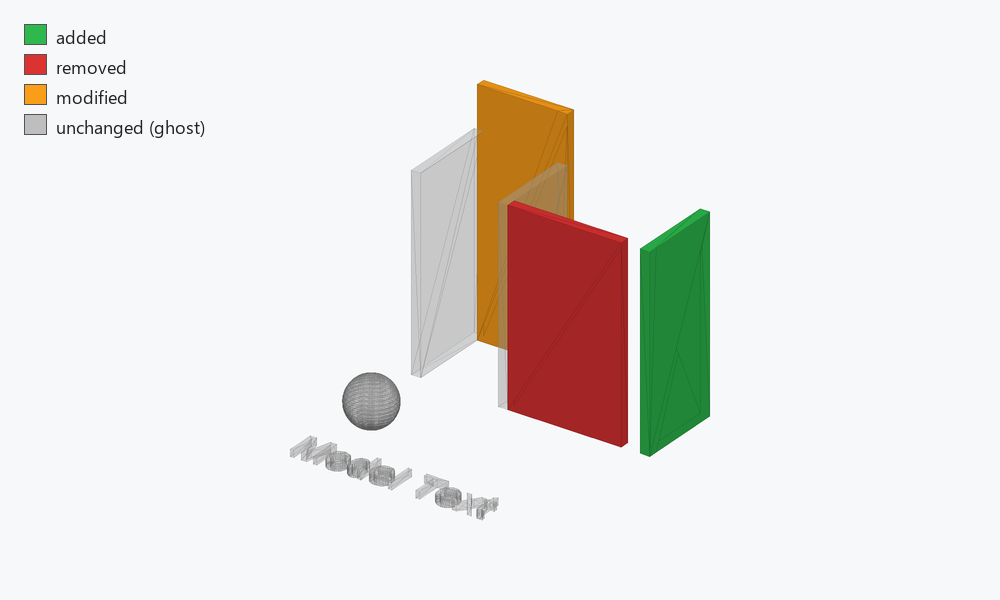
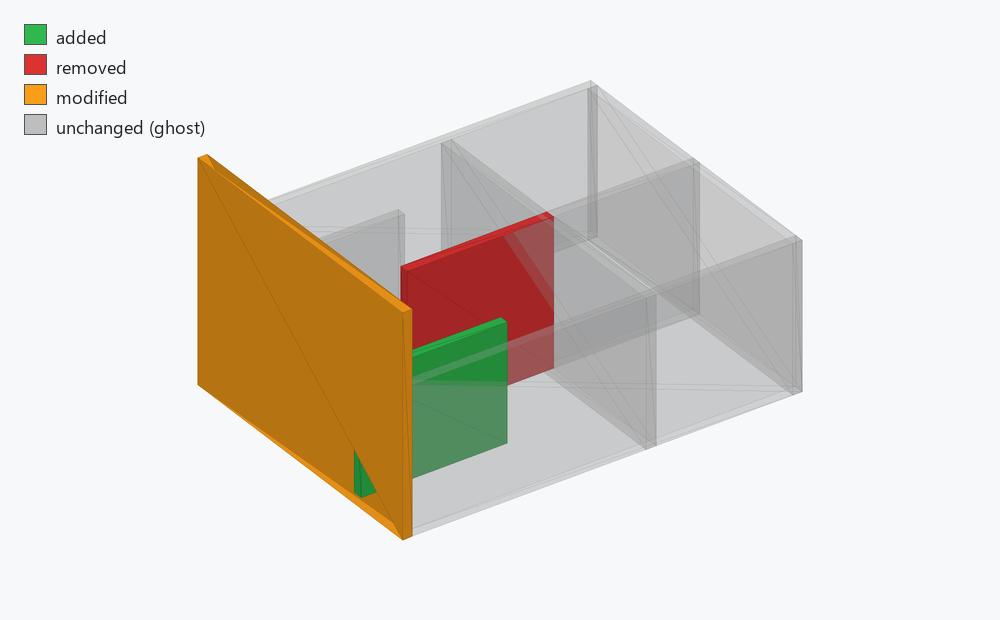
ddc diff demo: synthetic input for the GLB picture; tests follow the synthetic RVT fixture

diff --git a/ddc-tools/docs/make_diff_demo.py b/ddc-tools/docs/make_diff_demo.py
@@ -1,18 +1,24 @@
-"""Make "version 2" of a real RVT Converter output folder for the ddc diff demo (README screenshots).
+"""Make two versions of a small synthetic RVT-style output for the ddc diff demo (README picture).
 
-    RVTconverter.exe Sample_R24.rvt -o R24 --properties --ifc
-    python make_diff_demo.py R24 R24_v2
+    python make_diff_demo.py DEMO_A DEMO_B
 
-Sample_R24.rvt is the DDC sample of this repository (DDC_Update_Revit_from_Excel/Samples). The copy is
-edited the way a designer edits a model between two issues: wall 2567 gets taller (stored height
-and a 25 % taller mesh), wall 2646 is deleted, a new wall 9100 appears (a copy of wall 2606 moved by 3 m)
-properties.jsonl and native_graph.glb are rewritten; native_graph.ifc is copied unchanged.
+Base: tests/data/rvt_converted/properties.jsonl (synthetic, RVT Converter layout). Its wall 1001 is cloned
+into eight walls that form a room with a partition; a box per wall is written as native_graph.glb (the
+converter's node layout: extras.element_id, one node per element). Version B: wall 1004 is taller (stored
+height and mesh), wall 1006 is deleted, wall 1009 is new (and lower). Not a model of anything real.
 """
 import json
 import shutil
-import struct
 import sys
 from pathlib import Path
+
+HERE = Path(__file__).resolve().parent
+sys.path.insert(0, str(HERE.parent / "tests"))
+from _glbutil import write_boxes  # noqa: E402
+
+# id: (x, z, length, along) in metres, wall thickness 0.2, height 3 (glTF Y up)
+WALLS = {1001: (0, 0, 8, "x"), 1002: (0, 6, 8, "x"), 1003: (0, 0, 6, "z"), 1004: (8, 0, 6, "z"),
+         1005: (3, 0, 6, "z"), 1006: (3, 3, 3, "x"), 1007: (0, 3, 3, "x"), 1008: (5, 4.5, 3, "x")}
 
 
 def set_first_number(obj, new):
@@ -26,55 +32,34 @@ def set_first_number(obj, new):
     return False
 
 
-def edit_glb(src, dst, drop, scale_y, clone_from, clone_id, dx):
-    d = Path(src).read_bytes()
-    jl = struct.unpack("<I", d[12:16])[0]
-    g = json.loads(d[20:20 + jl])
-    off = 20 + jl
-    bl = struct.unpack("<I", d[off:off + 4])[0]
-    blob = d[off + 8: off + 8 + bl]
-    nodes = []
-    for n in g["nodes"]:
-        eid = n["extras"]["element_id"]
-        if eid == drop:
-            continue
-        if eid in scale_y:                       # glTF is Y-up, the matrix is column-major
-            m = n["matrix"]
-            m[9] *= scale_y[eid]
-        nodes.append(n)
-        if eid == clone_from:
-            c = json.loads(json.dumps(n))
-            c["extras"]["element_id"] = clone_id
-            c["name"] = f"element_{clone_id}"
-            c["matrix"][12] += dx
-            nodes.append(c)
-    g["nodes"] = nodes
-    g["scenes"][0]["nodes"] = list(range(len(nodes)))
-    js = json.dumps(g, separators=(",", ":")).encode()
-    js += b" " * (-len(js) % 4)
-    total = 12 + 8 + len(js) + 8 + len(blob)
-    Path(dst).write_bytes(b"glTF" + struct.pack("<II", 2, total) + struct.pack("<I", len(js)) + b"JSON" + js
-                          + struct.pack("<I", len(blob)) + b"BIN\x00" + blob)
+def box(eid, spec, height=3.0):
+    x, z, ln, along = spec
+    return (eid, (x, 0, z), (ln, height, 0.2) if along == "x" else (0.2, height, ln))
 
 
-def main(src, dst):
-    src, dst = Path(src), Path(dst)
+def write(dst, ids, heights=None):
+    heights = heights or {}
     dst.mkdir(parents=True)
-    shutil.copy(src / "native_graph.ifc", dst / "native_graph.ifc")
-    out = []
-    for ln in (src / "properties.jsonl").read_text(encoding="utf-8").splitlines():
-        d = json.loads(ln)
-        owner = str(d.get("owner"))
-        if owner == "2646":
-            continue
-        if owner == "2567" and d.get("row") == "parameter" and d.get("builtin_label") == "Unconnected Height":
-            set_first_number(d["fields"], 17.0)
-        out.append(ln if owner != "2567" or d.get("builtin_label") != "Unconnected Height" else json.dumps(d))
-        if owner == "2606":
-            out.append(json.dumps(json.loads(json.dumps(d).replace('"2606"', '"9100"'))))
-    (dst / "properties.jsonl").write_text("\n".join(out) + "\n", encoding="utf-8")
-    edit_glb(src / "native_graph.glb", dst / "native_graph.glb", drop=2646, scale_y={2567: 1.25},
-             clone_from=2606, clone_id=9100, dx=3.0)
+    base = [json.loads(l) for l in (HERE.parent / "tests/data/rvt_converted/properties.jsonl").read_text(encoding="utf-8").splitlines()]
+    out = [d for d in base if str(d.get("owner")) != "1001" and str(d.get("owner")) != "1002"]
+    wall = [d for d in base if str(d.get("owner")) == "1001"]
+    for i in ids:
+        for d in wall:
+            e = json.loads(json.dumps(d).replace('"1001"', f'"{i}"'))
+            if i in heights and e.get("row") == "parameter" and e.get("builtin_label") == "Unconnected Height":
+                set_first_number(e["fields"], heights[i] / 0.3048)
+            out.append(e)
+    (dst / "properties.jsonl").write_text("\n".join(json.dumps(d) for d in out) + "\n", encoding="utf-8")
+    boxes = [box(i, WALLS[i], heights.get(i, 3.0)) for i in ids]
+    write_boxes(dst / "native_graph.glb", boxes)
+
+
+def main(a, b):
+    ids = sorted(WALLS)
+    write(Path(a), ids)
+    new = [i for i in ids if i != 1006] + [1009]
+    WALLS[1009] = (5, 1.5, 3, "x")
+    write(Path(b), new, heights={1004: 4.5, 1009: 2.4})
 
 
 if __name__ == "__main__":

diff --git a/ddc-tools/tests/test_diff.py b/ddc-tools/tests/test_diff.py
@@ -310,18 +310,18 @@ def rvt_pair(tmp_path):
     for ln in (a / "properties.jsonl").read_text(encoding="utf-8").splitlines():
         d = json.loads(ln)
         owner = str(d.get("owner"))
-        if owner == "2549":
-            continue                                           # wall 2549 is deleted in B
-        if owner == "2567" and d.get("row") == "parameter" and d.get("builtin_label") == "Unconnected Height":
-            assert _param_numbers(d["fields"], 7.5)             # wall 2567 gets a new height
+        if owner == "1001":
+            continue                                           # wall 1001 is deleted in B
+        if owner == "1002" and d.get("row") == "parameter" and d.get("builtin_label") == "Unconnected Height":
+            assert _param_numbers(d["fields"], 7.5)             # wall 1002 gets a new height
         lines_out.append(json.dumps(d))
-        if owner == "2567":                                    # wall 9000 is new: a copy of 2567
-            e = json.loads(json.dumps(d).replace('"2567"', '"9000"'))
+        if owner == "1002":                                    # wall 9000 is new: a copy of 1002
+            e = json.loads(json.dumps(d).replace('"1002"', '"9000"'))
             e["owner"] = "9000"
             lines_out.append(json.dumps(e))
     (b / "properties.jsonl").write_text("\n".join(lines_out) + "\n", encoding="utf-8")
-    write_cubes(a / "native_graph.glb", [(2549, 10, 0), (2567, 10, 20)])
-    write_cubes(b / "native_graph.glb", [(2567, 10, 20), (9000, 10, 40)])
+    write_cubes(a / "native_graph.glb", [(1001, 10, 0), (1002, 10, 20)])
+    write_cubes(b / "native_graph.glb", [(1002, 10, 20), (9000, 10, 40)])
     return a, b
 
 
@@ -330,26 +330,26 @@ def test_rvt_diff_and_glb_coloring(rvt_pair, tmp_path):
     r = diff.diff_tables(table.build_table(str(a)), table.build_table(str(b)))
     st = {e["key"]: e for e in r["elements"]}
     assert r["key"]["column"] == "GlobalId" or r["key"]["column"] == "ElementId"
-    assert {k: v["status"] for k, v in st.items() if k in ("2549", "2567", "9000")} ==         {"2549": "removed", "2567": "modified", "9000": "added"}
-    assert [c["field"] for c in st["2567"]["changes"]] == ["Unconnected Height"]
-    assert st["1"]["status"] == st["1679"]["status"] == "unchanged"
+    assert {k: v["status"] for k, v in st.items() if k in ("1001", "1002", "9000")} ==         {"1001": "removed", "1002": "modified", "9000": "added"}
+    assert [c["field"] for c in st["1002"]["changes"]] == ["Unconnected Height"]
+    assert st["1"]["status"] == st["501"]["status"] == "unchanged"
     out = tmp_path / "diff.glb"
     stats = glbdiff.colorize(str(b / "native_graph.glb"), str(a / "native_graph.glb"), r, str(out))
     assert (stats["base_version"], stats["linked"], stats["unlinked"], stats["removed"]) == ("B", 2, 0, 1)
     gltf, blob = glbdiff.read_glb(out)
     status = {n["extras"]["element_id"]: n["extras"]["ddc_diff_status"] for n in gltf["nodes"]}
-    assert status == {2567: "modified", 9000: "added", 2549: "removed"}
+    assert status == {1002: "modified", 9000: "added", 1001: "removed"}
     colors = {}
     for n in gltf["nodes"]:
         m = gltf["materials"][gltf["meshes"][n["mesh"]]["primitives"][0]["material"]]
         colors[n["extras"]["element_id"]] = m["pbrMetallicRoughness"]["baseColorFactor"][:3]
-    assert colors[2549][0] > 0.8 and colors[2549][1] < 0.3                      # red
+    assert colors[1001][0] > 0.8 and colors[1001][1] < 0.3                      # red
     assert colors[9000][1] > colors[9000][0] and colors[9000][1] > colors[9000][2]   # green
-    assert colors[2567][0] > 0.9 and 0.5 < colors[2567][1] < 0.7                # orange
+    assert colors[1002][0] > 0.9 and 0.5 < colors[1002][1] < 0.7                # orange
     # the geometry copied from A reads back through the table reader: a 10 ft cube in metres
     q = table.read_glb_quantities(out)
-    assert abs(q["2549"]["volume"]) == pytest.approx((10 * 0.3048) ** 3, rel=1e-5)
-    assert abs(q["2567"]["volume"]) == pytest.approx((10 * 0.3048) ** 3, rel=1e-5)
+    assert abs(q["1001"]["volume"]) == pytest.approx((10 * 0.3048) ** 3, rel=1e-5)
+    assert abs(q["1002"]["volume"]) == pytest.approx((10 * 0.3048) ** 3, rel=1e-5)
     assert gltf["buffers"][0]["byteLength"] == len(blob)
 
 

diff --git a/ddc-tools/tests/_glbutil.py b/ddc-tools/tests/_glbutil.py
@@ -42,3 +42,35 @@ def write_cubes(path, cubes, scale=0.3048, extras_key="element_id", name_prefix=
     total = 12 + 8 + len(js) + 8 + len(blob)
     Path(path).write_bytes(b"glTF" + struct.pack("<II", 2, total) + struct.pack("<I", len(js)) + b"JSON" + js
                            + struct.pack("<I", len(blob)) + b"BIN\x00" + blob)
+
+
+def write_boxes(path, boxes, extras_key="element_id", name_prefix="element_"):
+    """boxes: list of (element id, (x, y, z) corner, (sx, sy, sz) size) in metres, glTF axes (Y up)."""
+    pos_blob, idx_blob = b"", b""
+    views, accessors, meshes, nodes = [], [], [], []
+    idx = []
+    for a, b, c, d in QUADS:
+        idx += [a, b, c, a, c, d]
+    i_bytes = b"".join(struct.pack("<H", k) for k in idx)
+    i_bytes += b"\x00" * (-len(i_bytes) % 4)
+    # one shared unit-cube mesh, every box is a node with a scale + translation matrix
+    v = [(x, y, z) for x in (0, 1) for y in (0, 1) for z in (0, 1)]
+    p = b"".join(struct.pack("<3f", *q) for q in v)
+    views = [{"buffer": 0, "byteOffset": 0, "byteLength": len(p)},
+             {"buffer": 0, "byteOffset": len(p), "byteLength": len(i_bytes)}]
+    accessors = [{"bufferView": 0, "componentType": 5126, "count": 8, "type": "VEC3"},
+                 {"bufferView": 1, "componentType": 5123, "count": len(idx), "type": "SCALAR"}]
+    meshes = [{"primitives": [{"attributes": {"POSITION": 0}, "indices": 1, "material": 0, "mode": 4}]}]
+    for eid, (x, y, z), (sx, sy, sz) in boxes:
+        nodes.append({"name": f"{name_prefix}{eid}", "mesh": 0, "extras": {extras_key: eid},
+                      "matrix": [sx, 0, 0, 0, 0, sy, 0, 0, 0, 0, sz, 0, x, y, z, 1]})
+    blob = p + i_bytes
+    g = {"asset": {"version": "2.0", "generator": "test"}, "buffers": [{"byteLength": len(blob)}],
+         "bufferViews": views, "accessors": accessors, "meshes": meshes, "nodes": nodes,
+         "materials": [{"name": "orig", "pbrMetallicRoughness": {"baseColorFactor": [0.6, 0.6, 0.65, 1]}}],
+         "scenes": [{"nodes": list(range(len(nodes)))}], "scene": 0}
+    js = json.dumps(g).encode()
+    js += b" " * (-len(js) % 4)
+    total = 12 + 8 + len(js) + 8 + len(blob)
+    Path(path).write_bytes(b"glTF" + struct.pack("<II", 2, total) + struct.pack("<I", len(js)) + b"JSON" + js
+                           + struct.pack("<I", len(blob)) + b"BIN\x00" + blob)

diff --git a/ddc-tools/docs/render_glb_png.py b/ddc-tools/docs/render_glb_png.py
@@ -53,7 +53,7 @@ def triangles(path):
 
 def render(glb, out, W=1100, H=700, legend=None):
     tris = triangles(glb)
-    az, el = math.radians(35), math.radians(28)
+    az, el = math.radians(-215), math.radians(32)
     ca, sa, ce, se = math.cos(az), math.sin(az), math.cos(el), math.sin(el)
 
     def proj(p):                                       # glTF Y-up -> screen

diff --git a/ddc-tools/README.md b/ddc-tools/README.md
@@ -274,6 +274,62 @@ output has no GLB, so for IFC pass one with `--glb-b`. Without any GLB the optio
 
 ![GLB coloured by status](docs/diff_glb.png)
 
+*The picture is a drawing of the output GLB made by `docs/render_glb_png.py`. The input is a small synthetic RVT-style output
+from `docs/make_diff_demo.py` (eight box walls): one wall taller (orange), one deleted (red), one added (green).*
+
+Limits, stated plainly: for RVT the table follows what the saved graph stores, which has no formula
+evaluation and no unit formatting; mesh volumes equal Revit's `Volume` only for closed meshes. The IFC table
+is only as good as the property and quantity sets in the file. Category codes (`OST_Walls`) come from a
+short list of certain ids and otherwise from the category name.
+
+## `ddc diff`
+
+What changed between two issues of a model? Both sides are read with the same adapters as `ddc table`
+(RVT `properties.jsonl` folder, DDC IFC to Excel output or a plain `.ifc`, DWG to Excel table), so A and B can be
+folders or files in any supported format.
+
+```bash
+ddc diff Duplex_v1 Duplex_v2 --xlsx changes.xlsx --json changes.json
+ddc diff R24 R24_v2 --glb diff.glb --bcf issues.bcf        # RVT outputs with native_graph.glb
+ddc diff A B --fail-on removed,modified                    # CI: exit code 1 only for these statuses
+```
+
+```
+24 -> 24 elements, matched by key:GlobalId: 2 added, 2 removed, 4 modified, 18 unchanged (4 property, 7 quantity, 1 attribute changes)
+```
+
+**Matching.** By a key column: `GlobalId`, `UniqueId`, `ElementId` or `ID`, the first that is present in both
+versions with enough coverage and overlap (or `--key COLUMN`). Elements left over on both sides are then matched by a
+fingerprint (category, type, level, quantities and all properties, without names and ids); only an exact one-to-one
+match counts, and those elements are reported as unchanged with `matched_by = fingerprint`. Statuses: `added`
+(only in B), `removed` (only in A), `modified`, `unchanged`. Ids that are not the key (STEP ids, regenerated
+GlobalIds) are not counted as changes; a warning says how many differ.
+
+**Changes** are listed per field with old value, new value and, for numbers, delta and percent. Kinds: `quantity`
+(Length, Width, Height, Perimeter, Area, Volume, mesh volume/area, bounding box, `Pset` quantities), `attribute`
+(category, type, name, level, material, layer) and `property` (everything else). Numbers are equal within
+`--tolerance` (relative, default 1e-6); `--ignore GLOB` skips columns.
+
+![Summary sheet](docs/diff_summary.png)
+
+![Changelog sheet](docs/diff_changelog.png)
+
+The XLSX has sheets `Summary`, `Changelog` (one row per change, status colours), `Elements`, `By category` and
+`Quantities` (totals per category in A and B). The JSON holds the same data plus the key diagnostics; unchanged
+elements are left out unless `--include-unchanged`.
+
+**Exit code** (`--fail-on`, default `added,removed,modified`): 0 = none of the listed statuses occurs, 1 = at least one
+occurs, 2 = error. `--fail-on none` always gives 0 when the comparison ran.
+
+**GLB.** `--glb out.glb` writes the GLB of version B with every material replaced by a status material
+(added green, modified orange, unchanged translucent grey; `--glb-unchanged keep|hide`) and copies the geometry of
+removed elements from the GLB of A in red. GLBs are taken from `native_graph.glb` / `model.glb` next to the inputs or
+from `--glb-a` / `--glb-b`. A node is linked to an element like in the DDC Data Viewer: by `extras.element_id`,
+`extras.global_id` or a trailing id of the node name; children inherit the status of their parent. The IFC to Excel
+output has no GLB, so for IFC pass one with `--glb-b`. Without any GLB the option only prints a warning.
+
+![GLB coloured by status](docs/diff_glb.png)
+
 *The picture is a drawing of the output GLB made by `docs/render_glb_png.py` from a real RVT Converter run on
 `Sample_R24.rvt` and an edited copy (`docs/make_diff_demo.py`): one wall taller, one deleted, one added.*
 
